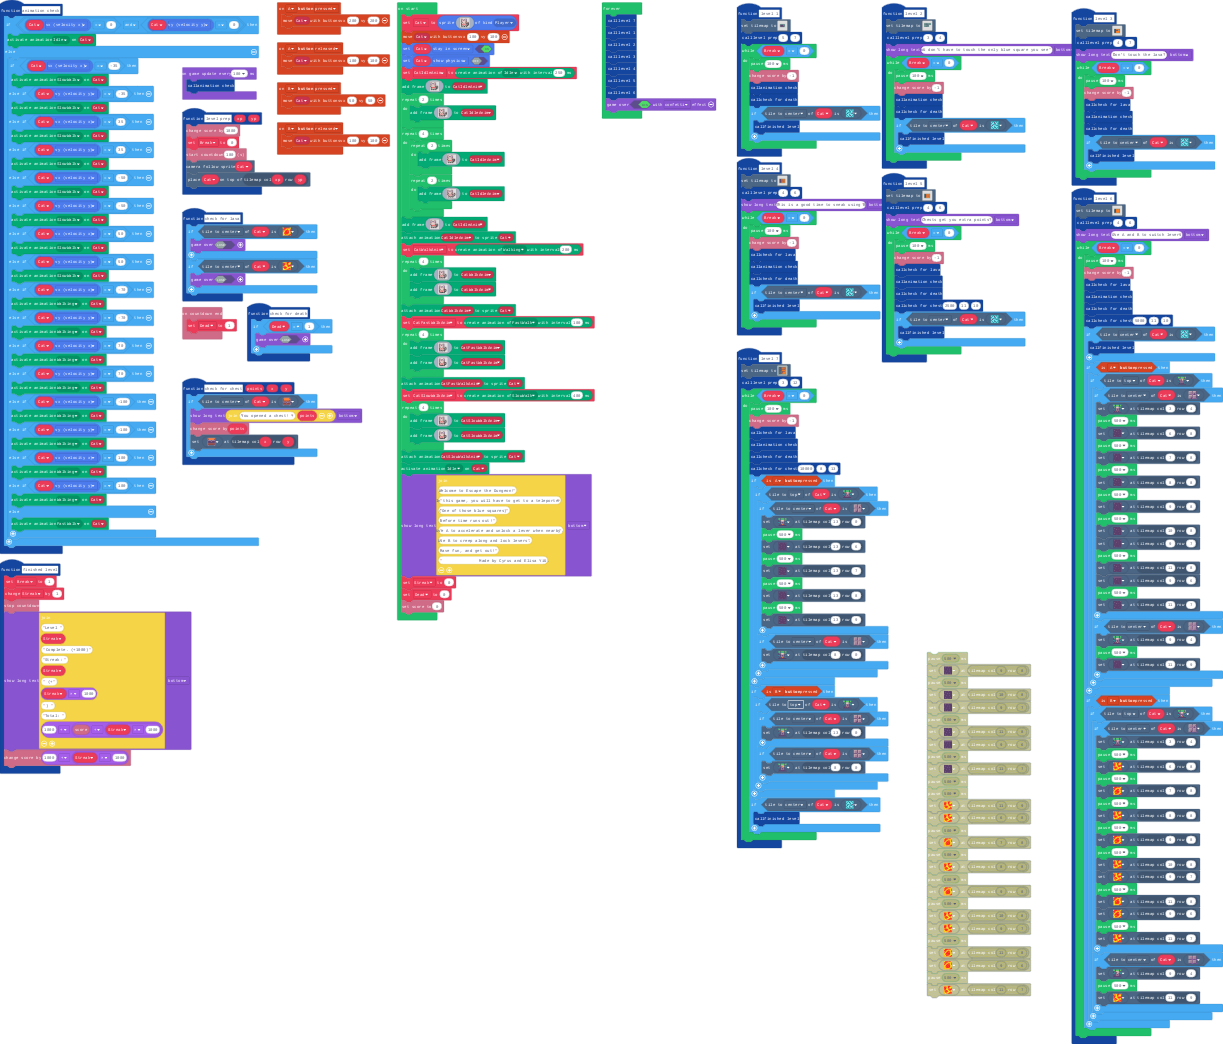
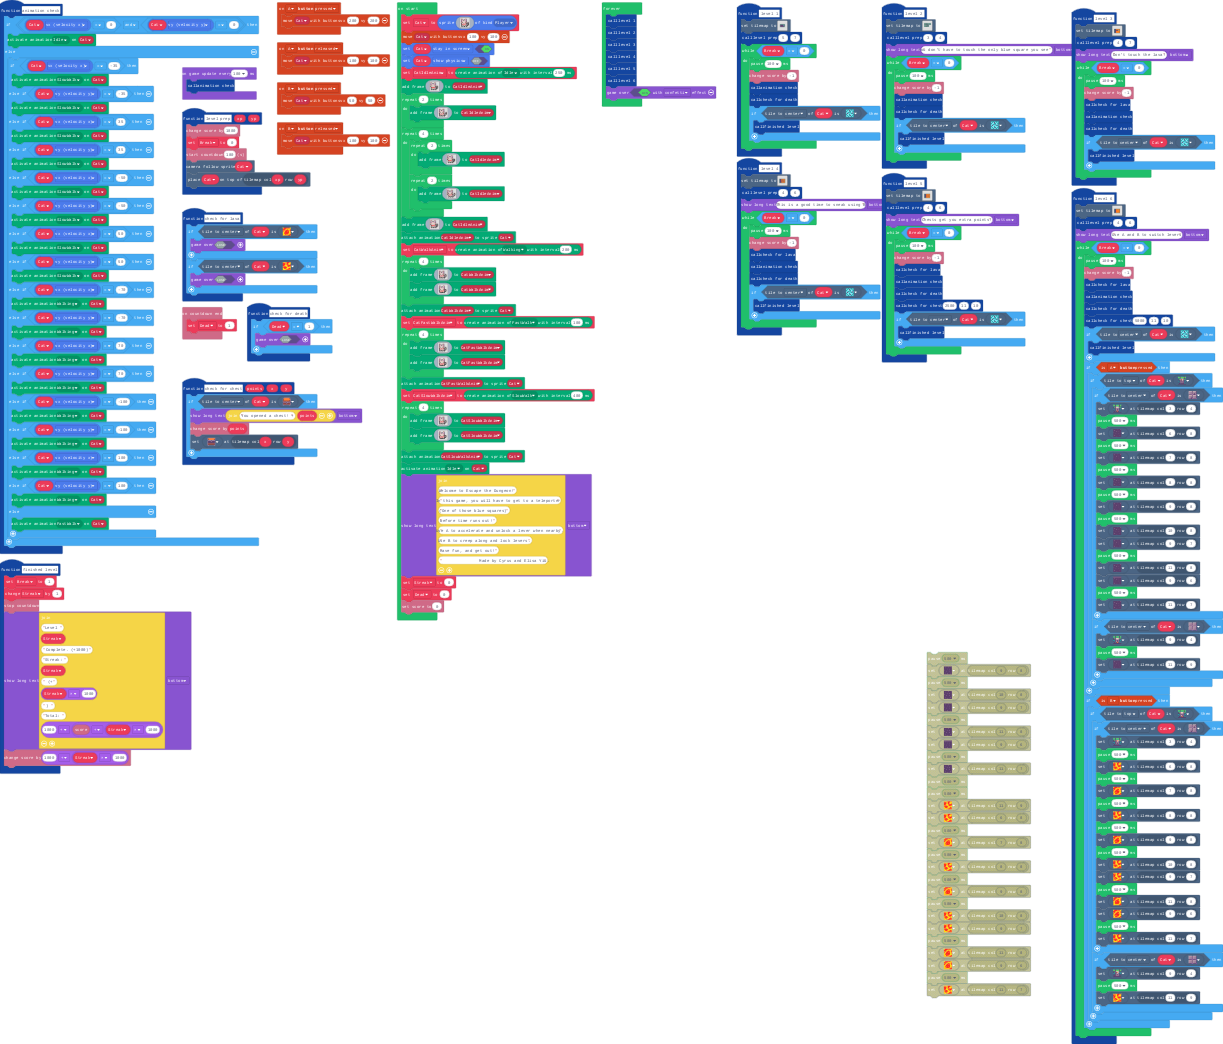
Update main.blocks, main.ts

Changed region(s): [[0.5904, 0.3372, 0.7457, 0.8276], [0.4971, 0.0613, 0.5904, 0.1226]]

diff --git a/main.ts b/main.ts
@@ -33,71 +33,6 @@ function level_prep (xp: number, yp: number) {
     scene.cameraFollowSprite(Cat)
     tiles.placeOnTile(Cat, tiles.getTileLocation(xp, yp))
 }
-function level_7 () {
-    tiles.setTilemap(tiles.createTilemap(
[1 lines of base64/hex data omitted]
-            img`
-2 2 2 2 2 2 2 2 2 2 2 2 2 2 2 2 
-2 . . . . . 2 . . . . . . . . 2 
-2 . 2 2 2 2 2 . . . . . . . . 2 
-2 . 2 . . . 2 . . . . . . . . 2 
-2 . 2 . 2 . 2 . . . . . . . . 2 
-2 . 2 . 2 . . . . . . . . . . 2 
-2 . 2 . 2 . 2 . . . . . . . . 2 
-2 . 2 . 2 . 2 . . . . . . . . 2 
-2 . . . . . 2 . . . . . . . . 2 
-2 . 2 2 2 . 2 . . . . . . . . 2 
-2 . . . 2 . 2 . . . . . . . . 2 
-2 . 2 2 2 2 2 . . . . . . . . 2 
-2 . 2 . . . 2 . . . . . . . . 2 
-2 . 2 2 2 . 2 . . . . . . . . 2 
-2 . . . . . 2 . . . . . . . . 2 
-2 2 2 2 2 2 2 2 2 2 2 2 2 2 2 2 
-`,
-            [myTiles.tile0,sprites.dungeon.darkGroundNorthWest0,sprites.dungeon.darkGroundWest,sprites.dungeon.darkGroundSouthWest0,sprites.dungeon.darkGroundNorth,sprites.dungeon.darkGroundNorthEast0,sprites.dungeon.darkGroundSouthEast0,sprites.dungeon.darkGroundEast,sprites.dungeon.darkGroundSouth,sprites.dungeon.darkGroundCenter,sprites.dungeon.greenOuterNorth0,sprites.dungeon.greenOuterNorth1,sprites.dungeon.greenOuterNorthWest,sprites.dungeon.greenOuterNorthEast,sprites.dungeon.greenOuterSouthWest,sprites.dungeon.greenOuterSouthEast,sprites.dungeon.greenOuterWest1,sprites.dungeon.greenOuterWest0,sprites.dungeon.greenOuterSouth0,sprites.dungeon.greenOuterSouth1,sprites.dungeon.greenOuterEast0,sprites.dungeon.greenOuterEast1,sprites.dungeon.greenOuterNorth2,sprites.dungeon.greenOuterSouth2,sprites.dungeon.greenOuterEast2,sprites.dungeon.greenOuterWest2,sprites.dungeon.collectibleInsignia,sprites.castle.tilePath3,sprites.dungeon.chestClosed,sprites.dungeon.darkGroundNorthWest1,sprites.dungeon.hazardLava0,sprites.dungeon.hazardLava1,sprites.dungeon.greenSwitchUp,sprites.dungeon.floorDark0,sprites.dungeon.floorDark1],
-            TileScale.Sixteen
-        ))
-    level_prep(3, 12)
-    while (Break == 0) {
-        pause(100)
-        info.changeScoreBy(-1)
-        check_for_lava()
-        animation_check()
-        check_for_death()
-        check_for_chest(10000, 8, 13)
-        if (controller.A.isPressed()) {
-            if (Cat.tileKindAt(TileDirection.Top, sprites.dungeon.greenSwitchUp)) {
-                if (Cat.tileKindAt(TileDirection.Center, sprites.dungeon.floorDark1)) {
-                    tiles.setTileAt(tiles.getTileLocation(13, 0), sprites.dungeon.greenSwitchDown)
-                    pause(500)
-                    tiles.setTileAt(tiles.getTileLocation(13, 6), sprites.dungeon.darkGroundCenter)
-                    pause(500)
-                    tiles.setTileAt(tiles.getTileLocation(13, 7), sprites.dungeon.darkGroundCenter)
-                    pause(500)
-                    tiles.setTileAt(tiles.getTileLocation(13, 8), sprites.dungeon.darkGroundCenter)
-                    pause(500)
-                    tiles.setTileAt(tiles.getTileLocation(13, 9), sprites.dungeon.darkGroundCenter)
-                }
-                if (Cat.tileKindAt(TileDirection.Center, sprites.dungeon.floorDark0)) {
-                    tiles.setTileAt(tiles.getTileLocation(8, 0), sprites.dungeon.greenSwitchDown)
-                }
-            }
-        }
-        if (controller.B.isPressed()) {
-            if (Cat.tileKindAt(TileDirection.Top, sprites.dungeon.greenSwitchDown)) {
-                if (Cat.tileKindAt(TileDirection.Center, sprites.dungeon.floorDark1)) {
-                    tiles.setTileAt(tiles.getTileLocation(13, 0), sprites.dungeon.greenSwitchUp)
-                }
-                if (Cat.tileKindAt(TileDirection.Center, sprites.dungeon.floorDark0)) {
-                    tiles.setTileAt(tiles.getTileLocation(8, 0), sprites.dungeon.greenSwitchUp)
-                }
-            }
-        }
-        if (Cat.tileKindAt(TileDirection.Center, sprites.dungeon.collectibleInsignia)) {
-            finished_level()
-        }
-    }
-}
 function level_3 () {
     tiles.setTilemap(tiles.createTilemap(
[1 lines of base64/hex data omitted]
@@ -688,7 +623,6 @@ game.onUpdateInterval(100, function () {
     animation_check()
 })
 forever(function () {
-    level_7()
     level_1()
     level_2()
     level_3()
